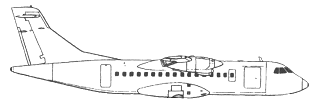
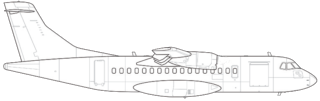
atr42 new sprite

Changed region(s): [[0.0, 0.0, 1.0, 0.9802]]

diff --git a/shilka2/Aircrafts.cs b/shilka2/Aircrafts.cs
@@ -1485,8 +1485,8 @@ namespace shilka2
                     new DynamicElement {
                         elementName = "ltl_prop",
                         y = 34,
-                        x_left = 95,
-                        x_right = 212,
+                        x_left = 92,
+                        x_right = 214,
                         movingType = DynamicElement.MovingType.yRotate,
                         mirror = true
                     }
